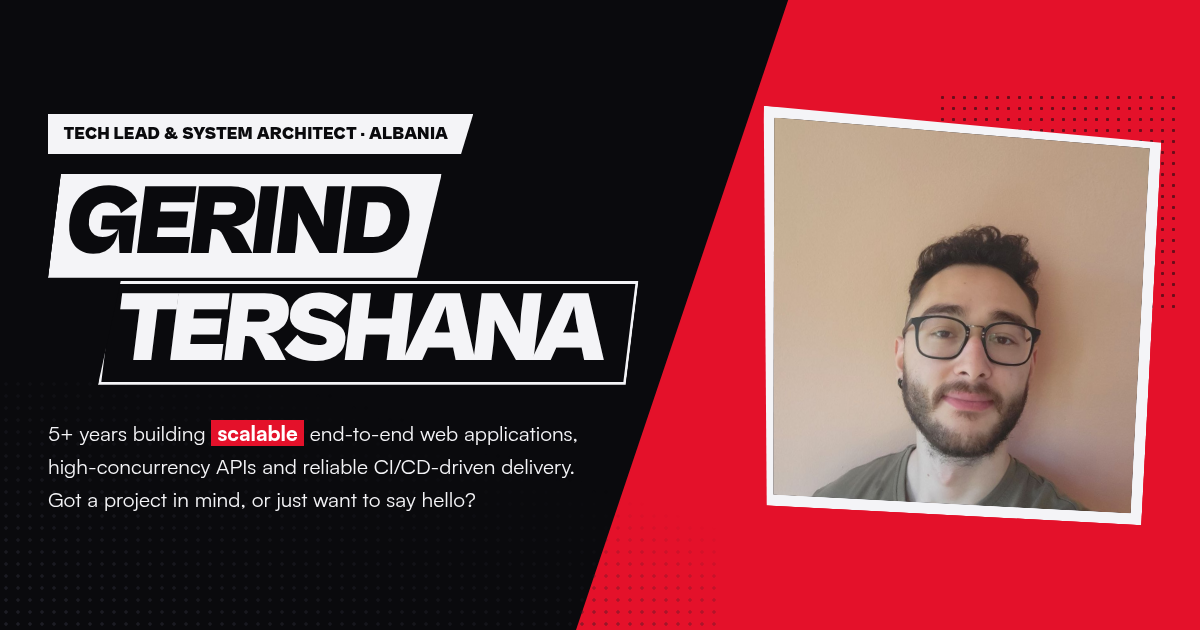
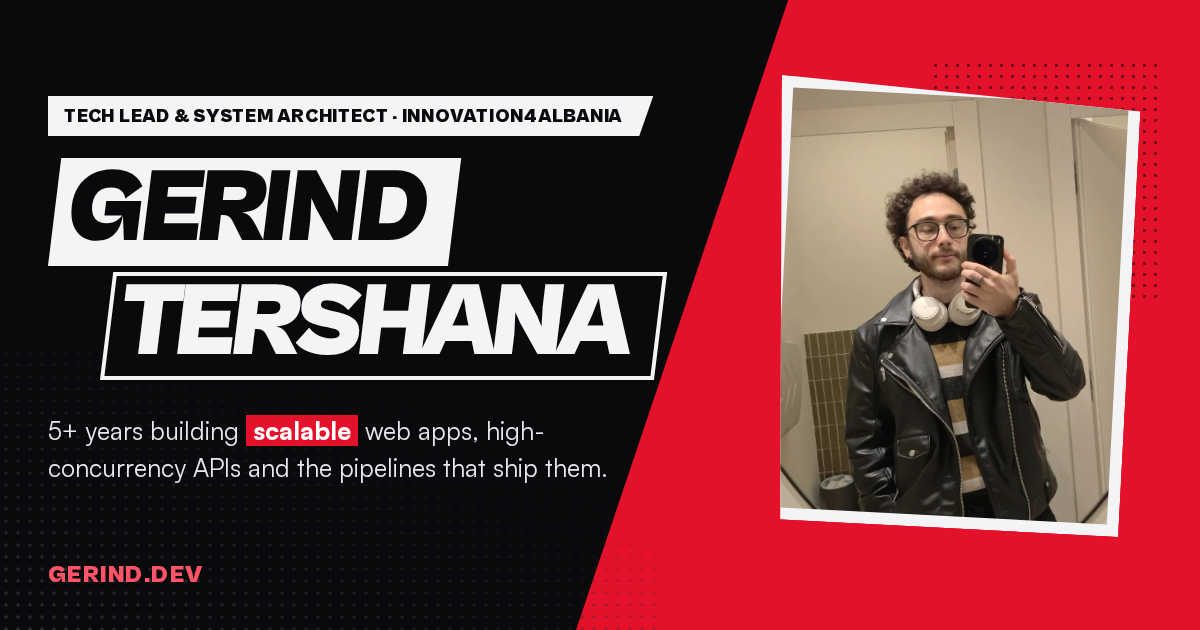
Remove the hero slash; part-time availability; new share image; ProfilePage and project data in JSON-LD; llms.txt

diff --git a/src/pages/llms.txt.ts b/src/pages/llms.txt.ts
@@ -1,0 +1,57 @@
+import type { APIRoute } from "astro";
+import { SITE, LINKS } from "../lib/constants";
+import { jobs, education, languages } from "../lib/career";
+import { groups, projectsByGroup, series, statusLabels } from "../lib/projects";
+
+// /llms.txt: a plain-text summary for AI assistants and answer engines (llmstxt.org).
+export const GET: APIRoute = () => {
+  const link = (p: { site?: string; github?: string }) =>
+    [p.site && `site: ${p.site}`, p.github && `code: ${p.github}`].filter(Boolean).join(", ");
+
+  const projectLines = projectsByGroup
+    .map((g) => {
+      const all = [...g.pictured, ...g.listed];
+      const lines = all.map(
+        (p) => `- [${p.title}](${SITE.url}/projects?p=${p.slug}) (${p.year}${p.role ? `, ${p.role}` : ""}; ${p.statuses.map((s) => statusLabels[s]).join(", ")}): ${p.blurb}${link(p) ? ` (${link(p)})` : ""}`
+      );
+      const side = g.side.length
+        ? [`\n### ${series["project-a-day"].title}\n\n${series["project-a-day"].note}\n`, ...g.side.map((p) => `- [${p.title}](${SITE.url}/projects?p=${p.slug}) (${p.year}): ${p.blurb}${link(p) ? ` (${link(p)})` : ""}`)]
+        : [];
+      return `## Projects: ${g.title}\n\n${g.note}\n\n${[...lines, ...side].join("\n")}`;
+    })
+    .join("\n\n");
+
+  const body = `# ${SITE.name}
+
+> ${SITE.name} is a software engineer in Tirana, Albania: ${jobs[0].role} at ${jobs[0].org}, previously a developer at Detag. 5+ years building scalable web applications, high-concurrency APIs and CI/CD pipelines with Go, Node.js, Laravel, Vue/Nuxt and React. Open to freelance projects and part-time roles.
+
+- Website: ${SITE.url}
+- Email: ${LINKS.email}
+- LinkedIn: ${LINKS.linkedin}
+- GitHub: ${LINKS.github}
+- CV (English, PDF): ${SITE.url}/Gerind_Tershana_EN.pdf
+- CV (Albanian, PDF): ${SITE.url}/Gerind_Tershana_AL.pdf
+
+## Pages
+
+- [Home](${SITE.url}/): profile, selected work and contact
+- [Projects](${SITE.url}/projects): all projects, grouped by where they were built
+- [About](${SITE.url}/about): career, education, tools and countries visited
+- [Media](${SITE.url}/media): favourite books, films and manga
+
+## Experience
+
+${jobs.map((j) => `- ${j.role}, ${j.org} (${j.dates})${j.points.length ? `: ${j.points.join(" ")}` : ""}`).join("\n")}
+
+## Education and community
+
+${education.map((e) => `- ${e.title}, ${e.where} (${e.dates})${e.note ? `. ${e.note}` : ""}`).join("\n")}
+
+Languages: ${languages.map((l) => `${l.name} (${l.level})`).join(", ")}.
+
+${projectLines}
+
+Groups: ${groups.map((g) => g.title).join(", ")}. Government and client work is linked only where the product is already public.
+`;
+  return new Response(body, { headers: { "Content-Type": "text/plain; charset=utf-8" } });
+};

diff --git a/src/style.css b/src/style.css
@@ -668,27 +668,6 @@ html {
     font-size: min(7.5rem, 15cqi);
   }
 }
-/* the red slash the name is set over */
-.name__slash {
-  position: absolute;
-  z-index: -1;
-  left: -0.25em;
-  top: 38%;
-  width: 118%;
-  height: 0.42em;
-  background: var(--accent);
-  transform: rotate(-7deg) skewX(-20deg);
-  transform-origin: left center;
-  animation: slash-in 0.6s var(--ease) 0.12s both;
-}
-@keyframes slash-in {
-  from {
-    clip-path: polygon(0 0, 0 0, 0 100%, 0 100%);
-  }
-  to {
-    clip-path: polygon(0 0, 100% 0, 100% 100%, 0 100%);
-  }
-}
 .name__line {
   display: inline-block;
   padding: 0.04em 0.28em 0.08em 0.12em;
